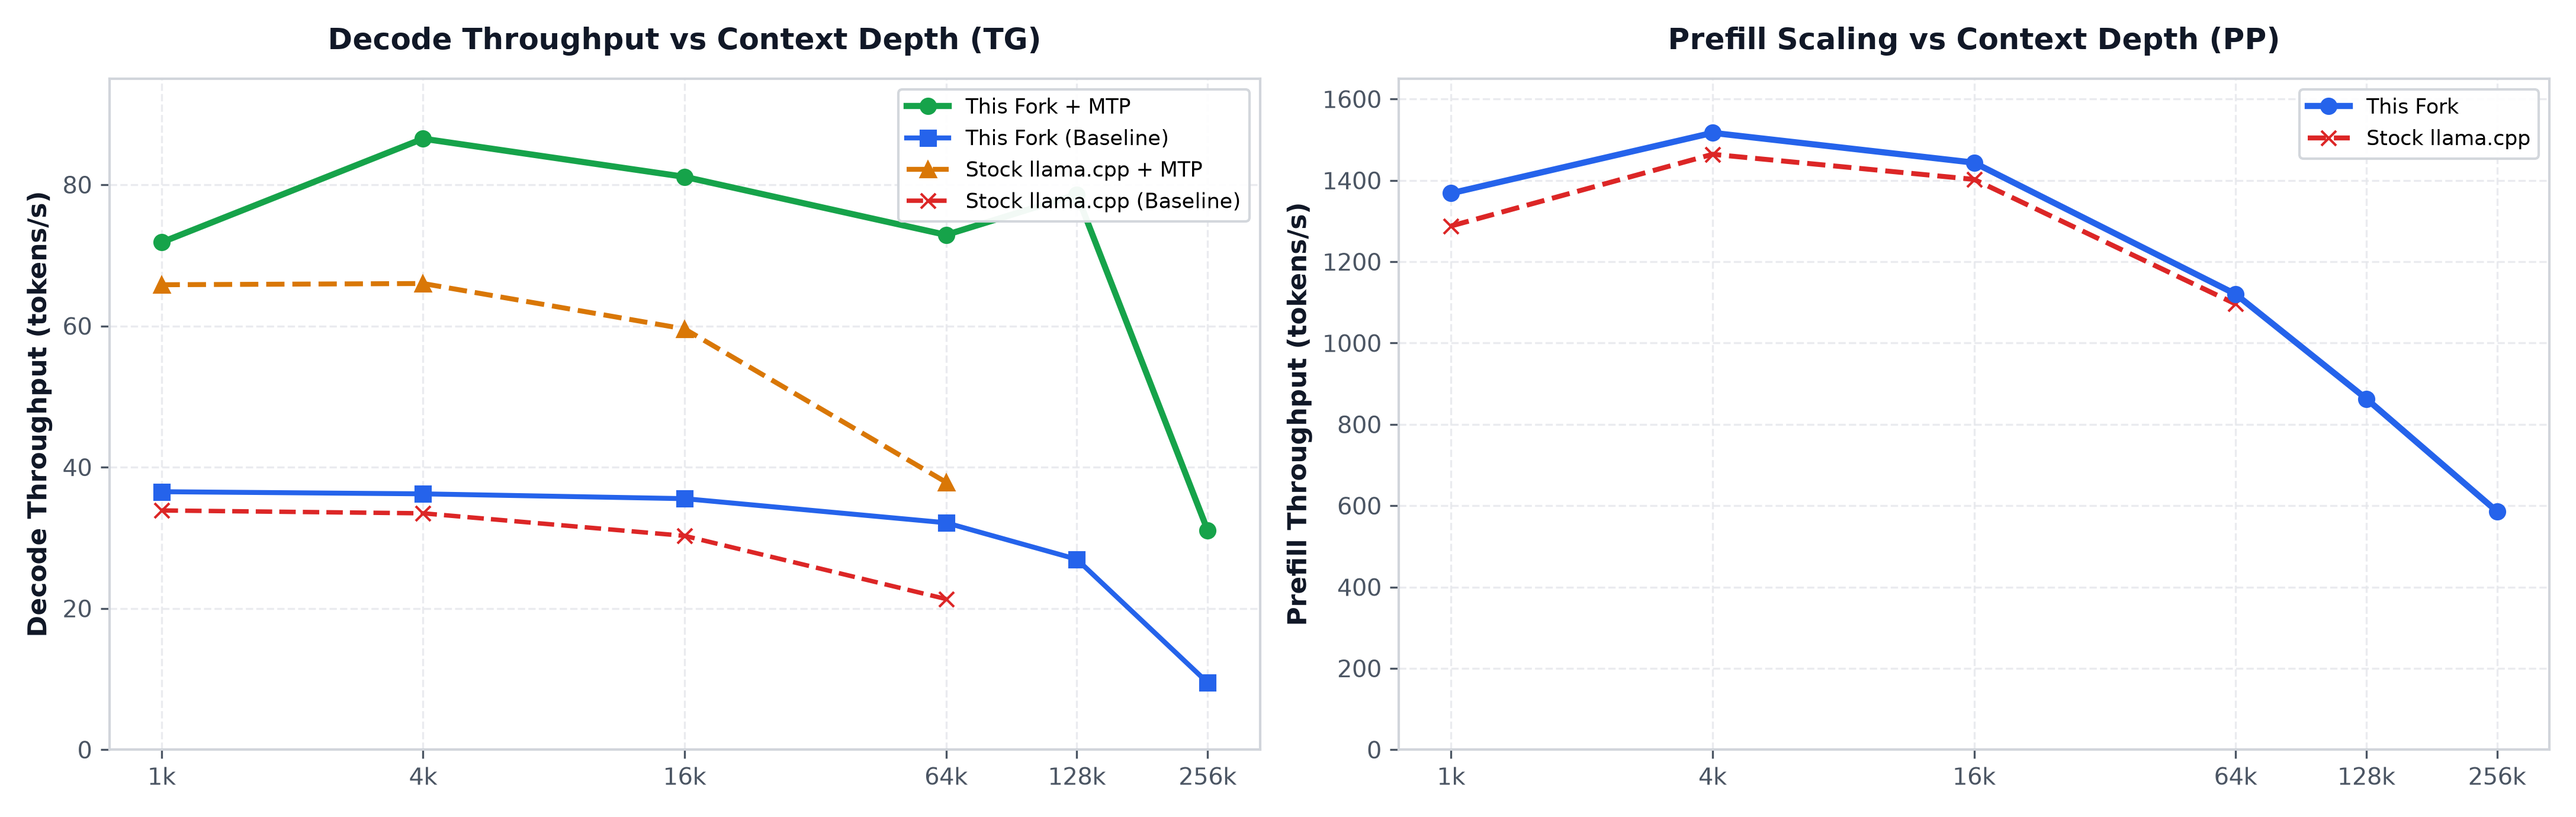
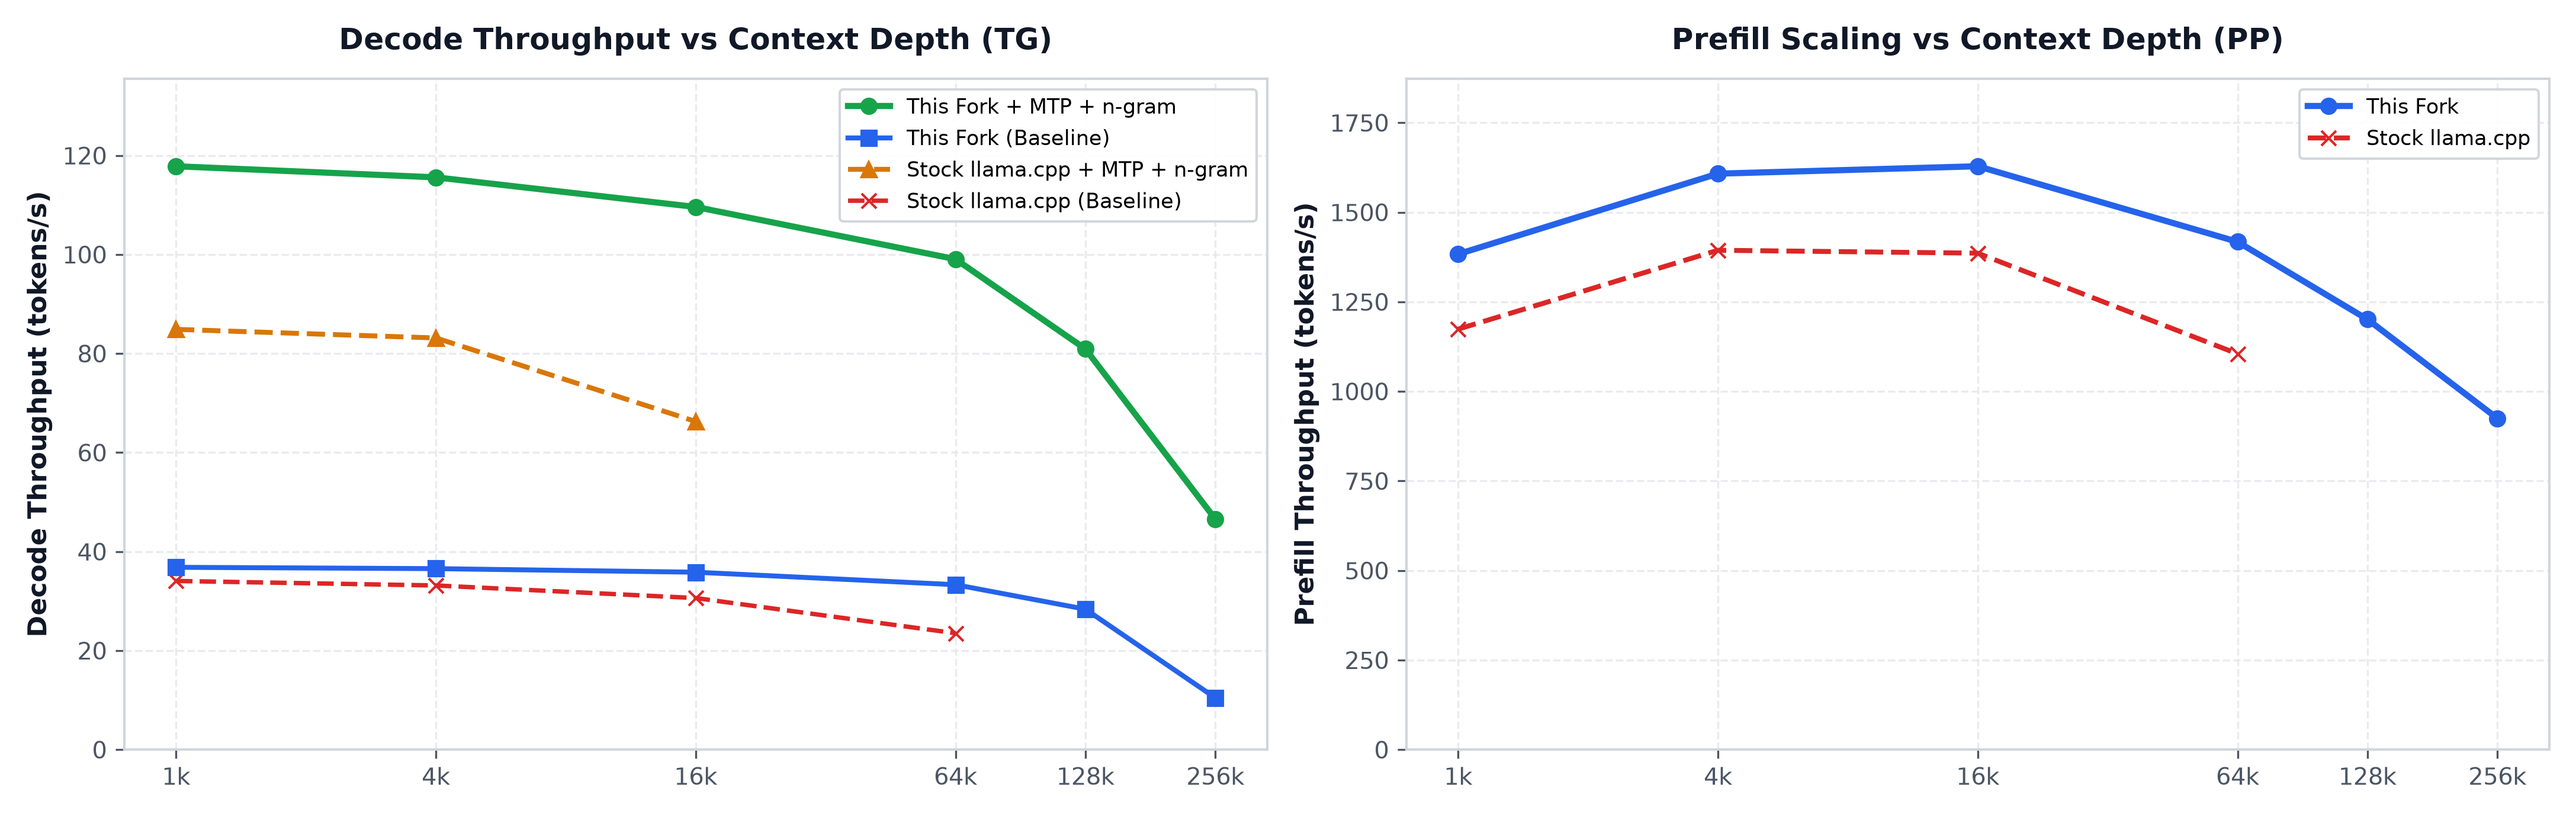
docs: benchmark matrix against upstream a37cc4610 with MTP + n-gram
Re-run the README matrix on 3ef1275ca against upstream a37cc4610 built
with the fork's flags, at a 300 W power limit. The workload is now an
agent-style edit turn (minimal old/new edit plus a short explanation,
reasoning effort low, production sampling, end of text with a 4,096-token
cap); the drafting columns run MTP + ngram-mod with the launcher's
settings. Decode is the median of three seeds restored from one cold
prefill; prefill is shown for the autoregressive configuration.

Also refresh the improvements list, the build flags and the launch
command (ReplaySSM, 2420 MiB decode budget, MTP 4, n-gram up to 32).

(cherry picked from commit b540a4b9b150d06ce9560901dd980a59ec8b49e4)

diff --git a/README.md b/README.md
@@ -1,6 +1,6 @@
 # llama.cpp (Adaptive KV Streaming & RDNA 4 ROCm Optimizations)
 
-This fork adds **Adaptive KV Streaming** and **RDNA 4 (gfx1201) / ROCm optimizations** to `llama.cpp`. It allows consumer GPUs with 16 GB VRAM (such as the AMD Radeon RX 9070 XT) to execute models like **Qwen3.8-27B** (`IQ4_XS` model weights, `Q8_0` K / `Q4_0` V cache) across their full **262,144-token context window** without running out of memory, delivering **80+ t/s** decode generation and **1,400+ t/s** prefill throughput.
+This fork adds **Adaptive KV Streaming** and **RDNA 4 (gfx1201) / ROCm optimizations** to `llama.cpp`. It allows consumer GPUs with 16 GB VRAM (such as the AMD Radeon RX 9070 XT) to execute models like **Qwen3.8-27B** (`IQ4_XS` model weights, `Q8_0` K / `Q4_0` V cache) across their full **262,144-token context window** without running out of memory, delivering **100+ t/s** decode and **1,600+ t/s** prefill.
 
 ---
 
@@ -12,15 +12,24 @@ This fork adds **Adaptive KV Streaming** and **RDNA 4 (gfx1201) / ROCm optimizat
   - Dedicated asynchronous copy engine streams KV pages via PCIe SDMA alongside compute streams.
   - Enables full 262,144-token context depth on a single 16 GB GPU with 100% recall and zero allocation crashes.
 - **RDNA 4 (gfx1201) and ROCm Kernel Optimizations**:
-  - Multi-column `mmvq` with 4 rows per block tuned for RDNA 4 wave dispatch.
-  - Kernel fusions: fused residual add + RMS norm, fused SwiGLU + quantized activation copies for `mmvq`, and fused gated delta net (GDN) recurrent kernels.
+  - Prefill attention kernel for the chunked paged prefill that reads the `Q8_0` K / `Q4_0` V cache directly.
+  - Decode attention kernel for `Q8_0` K / `Q4_0` V with aligned LDS reads for K fragments and compact V scales.
+  - Chunked gated delta net (GDN) prefill on WMMA: the recurrent state stays in registers across 16-token chunks.
+  - `mmq`: narrow tiles for weights with few row tiles, int32 sums converted to float without `v_cvt`, LDS-only
+    barriers in its loop (and in the FA prefill loop).
+  - Multi-column `mmvq` with 4 rows per block tuned for RDNA 4 wave dispatch; 16-byte weight reads for Q4_K and Q5_K;
+    IQ2/IQ3 grid signs without emulated byte-wise SIMD ops.
+  - Kernel fusions: residual add + RMS norm, SwiGLU and the residual add + RMS norm writing the quantized `q8_1` copy
+    for `mmvq`, the GDN gate/beta and alpha gate, and the GDN state read from and written to the recurrent cache.
   - Sibling matmul activation reuse across parallel projections.
-  - Aligned LDS reads for K fragments and compact V scales in paged decode attention.
-  - Vectorized 16-byte reads per call for Q4_K and Q5_K `mmvq`.
-- **Probabilistic Rejection-Sampled Speculative Pipeline**:
-  - Multi-Token Prediction (MTP) drafts are sampled probabilistically at request temperature and verified by rejection sampling instead of naive greedy matching, preserving model output distribution.
-  - Single-head MTP decodes verify catch-up in its first draft step.
-  - Stacks opportunistic n-gram drafting with MTP, delivering up to 16-token speculative bursts on repetitive context and code editing.
+  - Launch sizes stepped past the full-card wave cliff (normalizations, FWHT).
+- **Speculative decoding**:
+  - Multi-Token Prediction (MTP) drafts sampled at request temperature and verified by rejection sampling, preserving
+    the model's output distribution.
+  - Opportunistic n-gram drafts (`ngram-mod`) stacked with MTP: up to 32-token bursts when the output repeats context.
+  - ReplaySSM: delta-net layers roll drafts back from recorded updates instead of state snapshots (smaller recurrent
+    buffer, n-gram drafts roll back in place); the memory it frees goes to the KV decode budget.
+- **Prefill memory**: the KQ mask covers only the cells that are not fully visible (compact mask).
 - **HIP Runtime and Graph Tuning**:
   - Tuned for ROCm 7.2.3 and HIP graphs with single-queue async mode to prevent launch bubbles.
   - Constrains hardware queue allocations to prevent preemption save area VRAM blowups during long prefills.
@@ -55,11 +64,13 @@ Follow official documentation to install AMD ROCm for your distribution.
 cmake -B build-rocm -G Ninja \
   -DCMAKE_C_COMPILER=hipcc \
   -DCMAKE_CXX_COMPILER=hipcc \
+  -DCMAKE_BUILD_TYPE=Release \
   -DGGML_HIP=ON \
   -DAMDGPU_TARGETS=gfx1201 \
   -DGGML_HIP_NO_VMM=ON \
   -DGGML_CUDA_FA_QUANTS="q4_0-q4_0,q8_0-q8_0,f16-f16,bf16-bf16,q8_0-q4_0" \
-  -DGGML_BACKEND_DL=OFF
+  -DGGML_BACKEND_DL=OFF \
+  -DGGML_CCACHE=OFF
 
 cmake --build build-rocm --config Release -j$(nproc)
 ```
@@ -78,12 +89,15 @@ export DEBUG_HIP_FORCE_GRAPH_QUEUES=1
   -ctk q8_0 -ctv q4_0 -ctkd q8_0 -ctvd q4_0 \
   --kv-stream \
   --kv-resident-mib 450 \
-  --kv-resident-mib-decode 2100 \
+  --kv-resident-mib-decode 2420 \
   --spec-type draft-mtp,ngram-mod \
-  --spec-ngram-mod-n-max 16 \
+  --spec-rs-replay \
+  --spec-draft-n-max 4 \
+  --spec-ngram-mod-n-max 32 \
   --spec-ngram-mod-n-min 12 \
   --spec-ngram-mod-n-match 24 \
   --spec-draft-sampling probabilistic \
+  --chat-template-kwargs '{"reasoning_effort":"medium"}' \
   -b 2048 -ub 512
 ```
 
@@ -91,42 +105,49 @@ export DEBUG_HIP_FORCE_GRAPH_QUEUES=1
 
 ## Benchmark
 
-- **Hardware**: AMD Radeon RX 9070 XT (`gfx1201`), PCIe 5.0 x16, ROCm 7.2.3.
-- **Fork Build**: Commit `bd063a49a` (`feature/adaptive-kv-stream-rocm`).
-- **Upstream Build**: Commit `23f7aabc1` (`upstream/master`), compiled with identical ROCm flags.
-- **Workload**: Real SQLite amalgamation C source code (`sqlite3.c`) scaled to context ladder depths (`1k`, `4k`, `16k`, `64k`, `128k`, `256k`), prompting a standard helper function implementation (`sqlite3_custom_column_hash`).
-- **Generation**: 128 output tokens at greedy temperature 0.0 (deterministic token path).
-- **Metrics**: Prompt processing throughput (prefill t/s) and token generation throughput (decode t/s) reported directly by the server `/completion` JSON timings.
+- **Hardware**: AMD Radeon RX 9070 XT (`gfx1201`), 300 W power limit, PCIe 5.0 x16, ROCm 7.2.3.
+- **Fork Build**: Commit `3ef1275ca` (`feature/adaptive-kv-stream-rocm`).
+- **Upstream Build**: Commit `a37cc4610` (`upstream/master`, the fork's base), configured with the fork's flags.
+- **Workload**: An agent-style edit turn as a chat request. The context is the SQLite amalgamation (`sqlite3.c`) cut
+  to each ladder depth, followed by `sqlite3GetInt32()`; the request asks for a NULL guard as a minimal old/new edit
+  and a short explanation. Reasoning effort low; temperature 1.0, top-k 20, top-p 0.95, min-p 0.05; each turn ends at
+  the model's end of text (cap 4,096 tokens).
+- **Measurement**: One cold prefill per configuration and depth; decode is the median of three seeds, each on a fresh
+  server from the restored prompt state. Prefill and decode t/s from the server's timings.
+- **Configurations**: The same server flags for both builds (`-fit off`, `Q8_0` K / `Q4_0` V, `-c` = depth + 4,096).
+  Decode is shown autoregressive and with MTP + n-gram drafts (the launcher's speculative settings); prefill is the
+  autoregressive configuration's (MTP's head adds its own pass over the prompt). OOM: the server could not allocate
+  its buffers at startup.
 
 ![Benchmark Matrix Summary](docs/benchmark_matrix_summary.png)
 
 ### Decode Throughput (tokens/second)
 
-| Context Depth | Stock llama.cpp | Stock + MTP | This Fork | This Fork + MTP |
+| Context Depth | Stock llama.cpp | Stock + MTP + n-gram | This Fork | This Fork + MTP + n-gram |
 | :--- | :--- | :--- | :--- | :--- |
-| **1,024 tokens** | 33.87 t/s | 65.83 t/s | **36.53 t/s** (+7.8%) | **71.83 t/s** (+9.1%) |
-| **4,096 tokens** | 33.46 t/s | 66.00 t/s | **36.22 t/s** (+8.2%) | **86.51 t/s** (+31.1%) |
-| **16,384 tokens** | 30.27 t/s | 59.58 t/s | **35.54 t/s** (+17.4%) | **81.11 t/s** (+36.1%) |
-| **65,536 tokens** | 21.33 t/s | 37.87 t/s | **32.13 t/s** (+50.6%) | **72.89 t/s** (+92.5%) |
-| **131,072 tokens** | **OOM** | **OOM** | **26.96 t/s** | **78.60 t/s** |
-| **262,144 tokens** | **OOM** | **OOM** | **9.50 t/s** | **31.08 t/s** (+227.2%) |
+| **1k** (928 tokens) | 34.07 t/s | 84.89 t/s | **36.83 t/s** (+8.1%) | **117.83 t/s** (+38.8%) |
+| **4k** (4,005 tokens) | 33.16 t/s | 83.15 t/s | **36.56 t/s** (+10.3%) | **115.59 t/s** (+39.0%) |
+| **16k** (16,305 tokens) | 30.62 t/s | 66.28 t/s | **35.84 t/s** (+17.0%) | **109.61 t/s** (+65.4%) |
+| **64k** (65,466 tokens) | 23.52 t/s | **OOM** | **33.32 t/s** (+41.7%) | **99.07 t/s** |
+| **128k** (130,960 tokens) | **OOM** | **OOM** | **28.37 t/s** | **80.93 t/s** |
+| **256k** (258,019 tokens) | **OOM** | **OOM** | **10.47 t/s** | **46.57 t/s** |
 
 ### Prefill Throughput (tokens/second)
 
 | Context Depth | Stock llama.cpp | This Fork |
 | :--- | :--- | :--- |
-| **1,024 tokens** | 1,287.9 t/s | 1,368.4 t/s |
-| **4,096 tokens** | 1,464.2 t/s | 1,517.0 t/s |
-| **16,384 tokens** | 1,402.5 t/s | 1,443.7 t/s |
-| **65,536 tokens** | 1,096.1 t/s | 1,120.3 t/s |
-| **131,072 tokens** | **OOM** | **863.0 t/s** |
-| **262,144 tokens** | **OOM** | **585.8 t/s** |
+| **1k** (928 tokens) | 1,173.8 t/s | **1,383.3 t/s** (+17.8%) |
+| **4k** (4,005 tokens) | 1,394.0 t/s | **1,607.8 t/s** (+15.3%) |
+| **16k** (16,305 tokens) | 1,385.9 t/s | **1,628.5 t/s** (+17.5%) |
+| **64k** (65,466 tokens) | 1,104.9 t/s | **1,417.6 t/s** (+28.3%) |
+| **128k** (130,960 tokens) | **OOM** | **1,201.1 t/s** |
+| **256k** (258,019 tokens) | **OOM** | **924.8 t/s** |
 
 ---
 
 ## Multi-Turn Agent Performance
 
-I have been using this setup for multi-turn agentic coding sessions. Here are the aggregated results from these sessions:
+I have been using this setup for multi-turn agentic coding sessions. Here are the aggregated results from these sessions (recorded on the earlier build `bd063a49a`):
 
 ![Real-World Agent Workload Performance Profile](docs/agentic_workload_performance.png)
 
